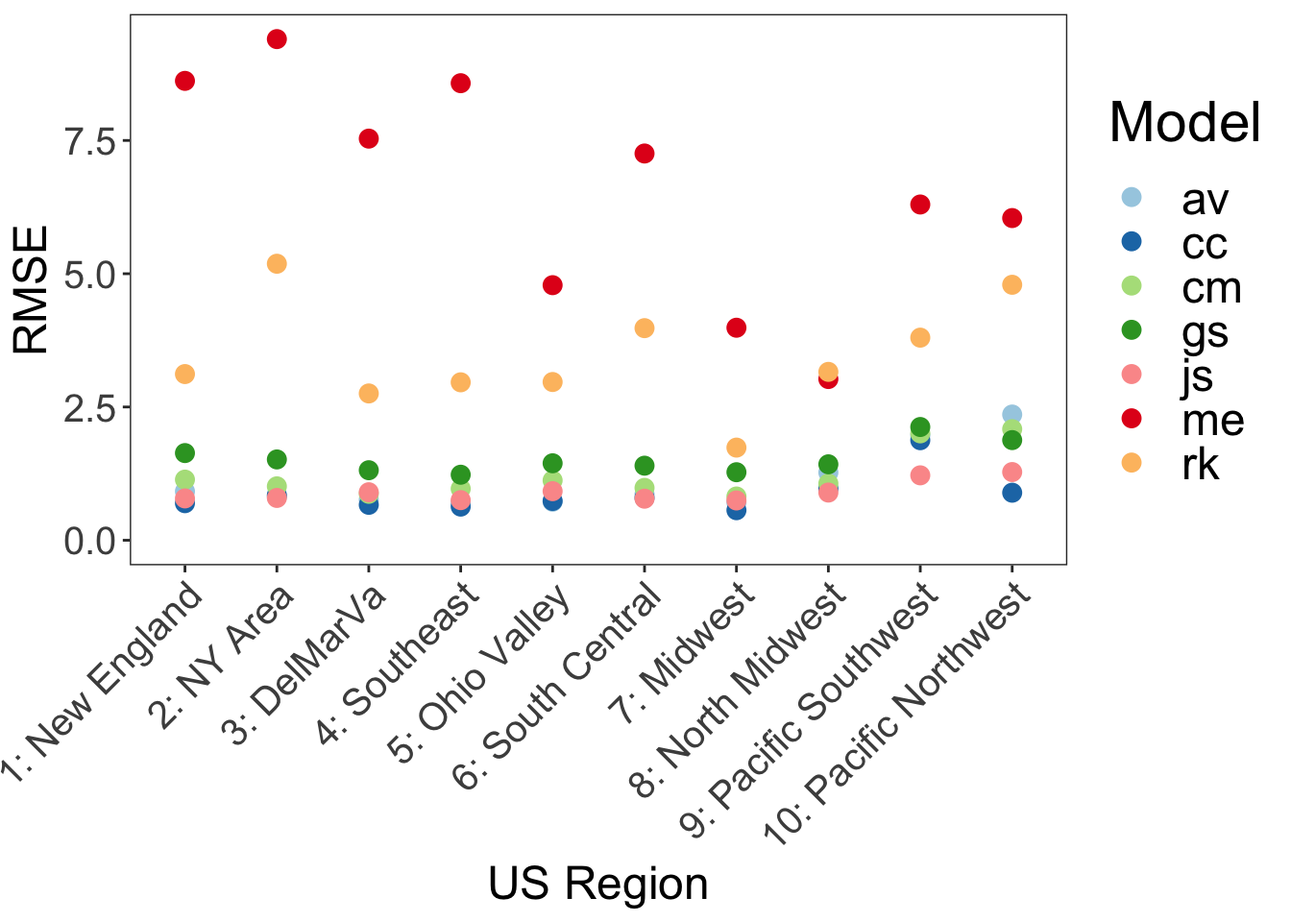
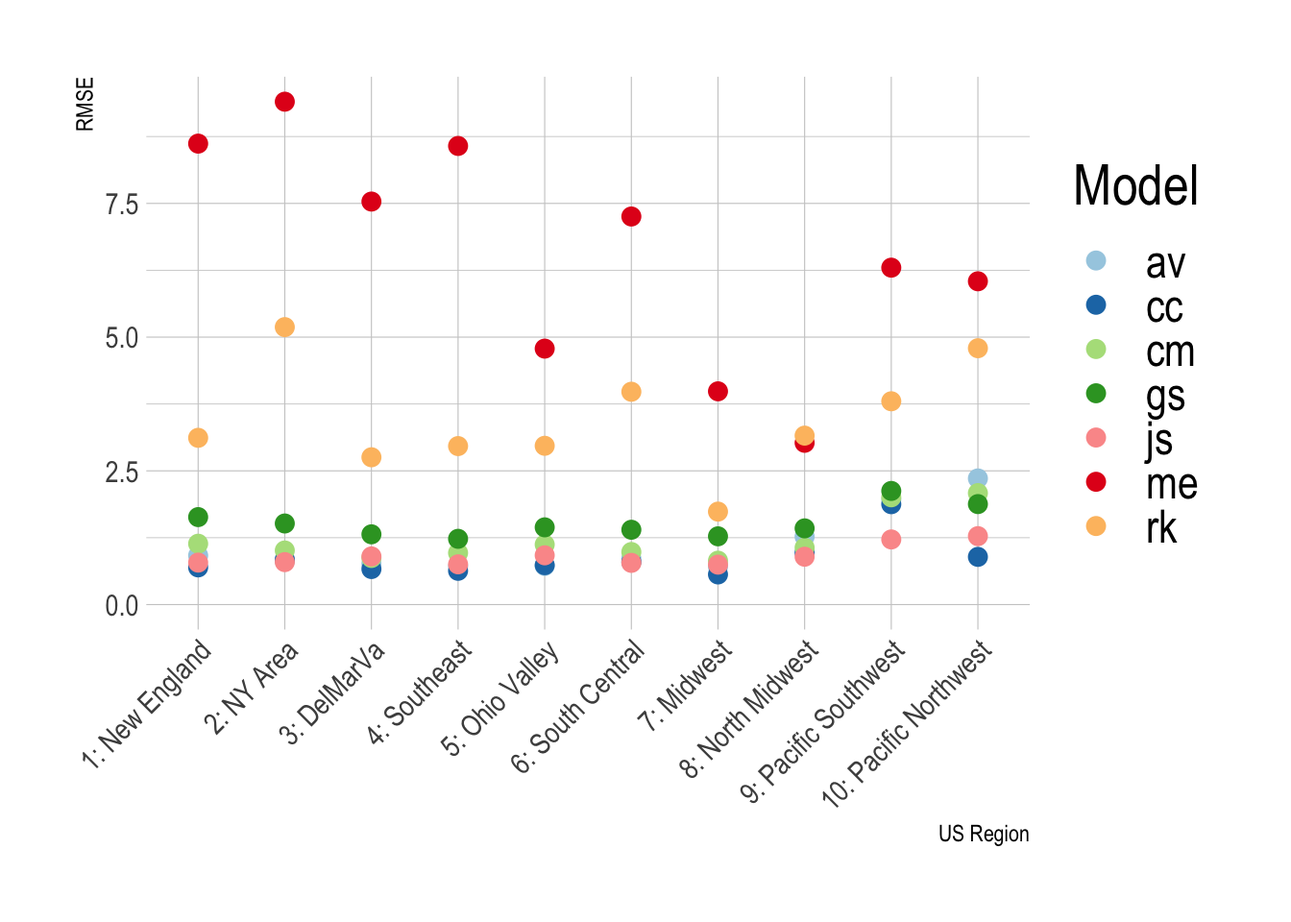
bne cleanup plots and imports

diff --git a/labs/bayesian_nonparametric_ensemble/bayesian_nonparametric_ensemble.html b/labs/bayesian_nonparametric_ensemble/bayesian_nonparametric_ensemble.html
@@ -2,7 +2,7 @@
 <html xmlns="http://www.w3.org/1999/xhtml" lang="en" xml:lang="en"><head>
 
 <meta charset="utf-8">
-<meta name="generator" content="quarto-1.3.354">
+<meta name="generator" content="quarto-1.3.433">
 
 <meta name="viewport" content="width=device-width, initial-scale=1.0, user-scalable=yes">
 
@@ -147,7 +147,7 @@ pre > code.sourceCode > span > a:first-child::before { text-decoration: underlin
 </div>
 <p>Load training dataset containing input base models and AQS observations for PM<span class="math inline">\(_{2.5}\)</span> during the period 2010-2015. To create the training dataset, we spatially joined each model to the EPA AQS dataset, using the prediction that was closest to each monitor (i.e., nearest neighbors).</p>
 <div class="cell">
-<div class="sourceCode cell-code" id="cb2"><pre class="sourceCode r code-with-copy"><code class="sourceCode r"><span id="cb2-1"><a href="#cb2-1" aria-hidden="true" tabindex="-1"></a>aqs_preds <span class="ot">&lt;-</span> readr<span class="sc">::</span><span class="fu">read_csv</span>(<span class="fu">here</span>(<span class="st">"data"</span>, <span class="st">"us"</span>, <span class="st">"training_cvfolds.csv"</span>))</span></code><button title="Copy to Clipboard" class="code-copy-button"><i class="bi"></i></button></pre></div>
+<div class="sourceCode cell-code" id="cb2"><pre class="sourceCode r code-with-copy"><code class="sourceCode r"><span id="cb2-1"><a href="#cb2-1" aria-hidden="true" tabindex="-1"></a>aqs_preds <span class="ot">&lt;-</span> <span class="fu">read_csv</span>(<span class="fu">here</span>(<span class="st">"data"</span>, <span class="st">"us"</span>, <span class="st">"training_cvfolds.csv"</span>))</span></code><button title="Copy to Clipboard" class="code-copy-button"><i class="bi"></i></button></pre></div>
 <div class="cell-output cell-output-stderr">
 <pre><code>Rows: 3808 Columns: 14
 ── Column specification ────────────────────────────────────────────────────────
@@ -190,9 +190,9 @@ dbl (12): lat, lon, yyyy, obs, pred_av, pred_cc, pred_cm, pred_gs, pred_js, ...
                     Max.   :10.000  </code></pre>
 </div>
 </div>
-<p>Load prediction dataset. To create the prediction dataset, we first created a reference grid, and then joined each prediction dataset by nearest neighbor. This dataset also contains <code>BNE</code> results that will be explored in next steps.</p>
+<p>Load prediction dataset. To create the prediction dataset, we first created a reference grid, and then joined each prediction dataset by nearest neighbour. This dataset also contains <code>BNE</code> results that will be explored in next steps.</p>
 <div class="cell">
-<div class="sourceCode cell-code" id="cb6"><pre class="sourceCode r code-with-copy"><code class="sourceCode r"><span id="cb6-1"><a href="#cb6-1" aria-hidden="true" tabindex="-1"></a>bne2015 <span class="ot">&lt;-</span> readr<span class="sc">::</span><span class="fu">read_csv</span>(<span class="fu">here</span>(<span class="st">"data"</span>, <span class="st">"us"</span>, <span class="st">"refGrid_pm25_comp_seb_vers_2_2015_2_0-5_2_0-5_2_0-0498_0-1353.csv"</span>))</span></code><button title="Copy to Clipboard" class="code-copy-button"><i class="bi"></i></button></pre></div>
+<div class="sourceCode cell-code" id="cb6"><pre class="sourceCode r code-with-copy"><code class="sourceCode r"><span id="cb6-1"><a href="#cb6-1" aria-hidden="true" tabindex="-1"></a>bne2015 <span class="ot">&lt;-</span> <span class="fu">read_csv</span>(<span class="fu">here</span>(<span class="st">"data"</span>, <span class="st">"us"</span>, <span class="st">"refGrid_pm25_comp_seb_vers_2_2015_2_0-5_2_0-5_2_0-0498_0-1353.csv"</span>))</span></code><button title="Copy to Clipboard" class="code-copy-button"><i class="bi"></i></button></pre></div>
 <div class="cell-output cell-output-stderr">
 <pre><code>Rows: 52385 Columns: 51
 ── Column specification ────────────────────────────────────────────────────────
@@ -273,7 +273,7 @@ dbl (51): lat, lon, time, ens_mean, ens_sd, rp_mean, rp_sd, y_mean, y_sd, un...
 </div>
 <p>How do input base model predictions compare with AQS observations?</p>
 <div class="cell">
-<div class="sourceCode cell-code" id="cb15"><pre class="sourceCode r code-with-copy"><code class="sourceCode r"><span id="cb15-1"><a href="#cb15-1" aria-hidden="true" tabindex="-1"></a>aqs_preds_summ <span class="ot">&lt;-</span> aqs_preds <span class="sc">%&gt;%</span></span>
+<div class="sourceCode cell-code" id="cb15"><pre class="sourceCode r code-with-copy"><code class="sourceCode r"><span id="cb15-1"><a href="#cb15-1" aria-hidden="true" tabindex="-1"></a>aqs_preds_summ <span class="ot">&lt;-</span> aqs_preds <span class="sc">|&gt;</span></span>
 <span id="cb15-2"><a href="#cb15-2" aria-hidden="true" tabindex="-1"></a>  <span class="fu">mutate</span>(</span>
 <span id="cb15-3"><a href="#cb15-3" aria-hidden="true" tabindex="-1"></a>    <span class="at">se_av =</span> (pred_av <span class="sc">-</span> obs)<span class="sc">^</span><span class="dv">2</span>,</span>
 <span id="cb15-4"><a href="#cb15-4" aria-hidden="true" tabindex="-1"></a>    <span class="at">se_cc =</span> (pred_cc <span class="sc">-</span> obs)<span class="sc">^</span><span class="dv">2</span>,</span>
@@ -284,8 +284,8 @@ dbl (51): lat, lon, time, ens_mean, ens_sd, rp_mean, rp_sd, y_mean, y_sd, un...
 <span id="cb15-9"><a href="#cb15-9" aria-hidden="true" tabindex="-1"></a>    <span class="at">se_rk =</span> (pred_rk <span class="sc">-</span> obs)<span class="sc">^</span><span class="dv">2</span></span>
 <span id="cb15-10"><a href="#cb15-10" aria-hidden="true" tabindex="-1"></a>  )</span>
 <span id="cb15-11"><a href="#cb15-11" aria-hidden="true" tabindex="-1"></a></span>
-<span id="cb15-12"><a href="#cb15-12" aria-hidden="true" tabindex="-1"></a>aqs_preds_summ_reg <span class="ot">&lt;-</span> aqs_preds_summ <span class="sc">%&gt;%</span></span>
-<span id="cb15-13"><a href="#cb15-13" aria-hidden="true" tabindex="-1"></a>  <span class="fu">inner_join</span>(readr<span class="sc">::</span><span class="fu">read_csv</span>(<span class="fu">here</span>(<span class="st">"data"</span>, <span class="st">"us"</span>, <span class="st">"key_state_region.csv"</span>)), <span class="at">by =</span> <span class="st">"state"</span>) <span class="sc">%&gt;%</span></span>
+<span id="cb15-12"><a href="#cb15-12" aria-hidden="true" tabindex="-1"></a>aqs_preds_summ_reg <span class="ot">&lt;-</span> aqs_preds_summ <span class="sc">|&gt;</span></span>
+<span id="cb15-13"><a href="#cb15-13" aria-hidden="true" tabindex="-1"></a>  <span class="fu">inner_join</span>(readr<span class="sc">::</span><span class="fu">read_csv</span>(<span class="fu">here</span>(<span class="st">"data"</span>, <span class="st">"us"</span>, <span class="st">"key_state_region.csv"</span>)), <span class="at">by =</span> <span class="st">"state"</span>) <span class="sc">|&gt;</span></span>
 <span id="cb15-14"><a href="#cb15-14" aria-hidden="true" tabindex="-1"></a>  <span class="fu">inner_join</span>(readr<span class="sc">::</span><span class="fu">read_csv</span>(<span class="fu">here</span>(<span class="st">"data"</span>, <span class="st">"us"</span>, <span class="st">"key_region_regionName.csv"</span>)), <span class="at">by =</span> <span class="st">"region"</span>)</span></code><button title="Copy to Clipboard" class="code-copy-button"><i class="bi"></i></button></pre></div>
 <div class="cell-output cell-output-stderr">
 <pre><code>Rows: 52 Columns: 2
@@ -303,8 +303,8 @@ chr (2): region, region_name
 ℹ Use `spec()` to retrieve the full column specification for this data.
 ℹ Specify the column types or set `show_col_types = FALSE` to quiet this message.</code></pre>
 </div>
-<div class="sourceCode cell-code" id="cb17"><pre class="sourceCode r code-with-copy"><code class="sourceCode r"><span id="cb17-1"><a href="#cb17-1" aria-hidden="true" tabindex="-1"></a>aqs_preds_summ_rmse <span class="ot">&lt;-</span> aqs_preds_summ_reg <span class="sc">%&gt;%</span></span>
-<span id="cb17-2"><a href="#cb17-2" aria-hidden="true" tabindex="-1"></a>  <span class="fu">group_by</span>(region_name) <span class="sc">%&gt;%</span></span>
+<div class="sourceCode cell-code" id="cb17"><pre class="sourceCode r code-with-copy"><code class="sourceCode r"><span id="cb17-1"><a href="#cb17-1" aria-hidden="true" tabindex="-1"></a>aqs_preds_summ_rmse <span class="ot">&lt;-</span> aqs_preds_summ_reg <span class="sc">|&gt;</span></span>
+<span id="cb17-2"><a href="#cb17-2" aria-hidden="true" tabindex="-1"></a>  <span class="fu">group_by</span>(region_name) <span class="sc">|&gt;</span></span>
 <span id="cb17-3"><a href="#cb17-3" aria-hidden="true" tabindex="-1"></a>  <span class="fu">summarize</span>(</span>
 <span id="cb17-4"><a href="#cb17-4" aria-hidden="true" tabindex="-1"></a>    <span class="at">rmse_av =</span> <span class="fu">sqrt</span>(<span class="fu">mean</span>(se_av)),</span>
 <span id="cb17-5"><a href="#cb17-5" aria-hidden="true" tabindex="-1"></a>    <span class="at">rmse_cc =</span> <span class="fu">sqrt</span>(<span class="fu">mean</span>(se_cc)),</span>
@@ -313,7 +313,7 @@ chr (2): region, region_name
 <span id="cb17-8"><a href="#cb17-8" aria-hidden="true" tabindex="-1"></a>    <span class="at">rmse_js =</span> <span class="fu">sqrt</span>(<span class="fu">mean</span>(se_js)),</span>
 <span id="cb17-9"><a href="#cb17-9" aria-hidden="true" tabindex="-1"></a>    <span class="at">rmse_me =</span> <span class="fu">sqrt</span>(<span class="fu">mean</span>(se_me)),</span>
 <span id="cb17-10"><a href="#cb17-10" aria-hidden="true" tabindex="-1"></a>    <span class="at">rmse_rk =</span> <span class="fu">sqrt</span>(<span class="fu">mean</span>(se_rk))</span>
-<span id="cb17-11"><a href="#cb17-11" aria-hidden="true" tabindex="-1"></a>  ) <span class="sc">%&gt;%</span></span>
+<span id="cb17-11"><a href="#cb17-11" aria-hidden="true" tabindex="-1"></a>  ) <span class="sc">|&gt;</span></span>
 <span id="cb17-12"><a href="#cb17-12" aria-hidden="true" tabindex="-1"></a>  <span class="fu">pivot_longer</span>(</span>
 <span id="cb17-13"><a href="#cb17-13" aria-hidden="true" tabindex="-1"></a>    <span class="at">cols =</span> <span class="fu">starts_with</span>(<span class="st">"rmse_"</span>),</span>
 <span id="cb17-14"><a href="#cb17-14" aria-hidden="true" tabindex="-1"></a>    <span class="at">names_to =</span> <span class="st">"model"</span>,</span>
@@ -322,36 +322,27 @@ chr (2): region, region_name
 <span id="cb17-17"><a href="#cb17-17" aria-hidden="true" tabindex="-1"></a>    <span class="at">values_drop_na =</span> <span class="cn">TRUE</span></span>
 <span id="cb17-18"><a href="#cb17-18" aria-hidden="true" tabindex="-1"></a>  )</span>
 <span id="cb17-19"><a href="#cb17-19" aria-hidden="true" tabindex="-1"></a></span>
-<span id="cb17-20"><a href="#cb17-20" aria-hidden="true" tabindex="-1"></a>p <span class="ot">&lt;-</span> aqs_preds_summ_rmse <span class="sc">%&gt;%</span></span>
+<span id="cb17-20"><a href="#cb17-20" aria-hidden="true" tabindex="-1"></a>p <span class="ot">&lt;-</span> aqs_preds_summ_rmse <span class="sc">|&gt;</span></span>
 <span id="cb17-21"><a href="#cb17-21" aria-hidden="true" tabindex="-1"></a>  <span class="fu">mutate</span>(<span class="at">region_name =</span> <span class="fu">fct_relevel</span>(</span>
 <span id="cb17-22"><a href="#cb17-22" aria-hidden="true" tabindex="-1"></a>    region_name,</span>
 <span id="cb17-23"><a href="#cb17-23" aria-hidden="true" tabindex="-1"></a>    <span class="st">"1: New England"</span>, <span class="st">"2: NY Area"</span>, <span class="st">"3: DelMarVa"</span>,</span>
 <span id="cb17-24"><a href="#cb17-24" aria-hidden="true" tabindex="-1"></a>    <span class="st">"4: Southeast"</span>, <span class="st">"5: Ohio Valley"</span>, <span class="st">"6: South Central"</span>,</span>
 <span id="cb17-25"><a href="#cb17-25" aria-hidden="true" tabindex="-1"></a>    <span class="st">"7: Midwest"</span>, <span class="st">"8: North Midwest"</span>, <span class="st">"9: Pacific Southwest"</span>, <span class="st">"10: Pacific Northwest"</span></span>
-<span id="cb17-26"><a href="#cb17-26" aria-hidden="true" tabindex="-1"></a>  )) <span class="sc">%&gt;%</span></span>
-<span id="cb17-27"><a href="#cb17-27" aria-hidden="true" tabindex="-1"></a>  <span class="fu">ggplot</span>() <span class="sc">+</span></span>
-<span id="cb17-28"><a href="#cb17-28" aria-hidden="true" tabindex="-1"></a>  <span class="fu">geom_point</span>(<span class="fu">aes</span>(<span class="at">x =</span> region_name, <span class="at">y =</span> rmse, <span class="at">color =</span> model), <span class="at">size =</span> <span class="dv">3</span>) <span class="sc">+</span></span>
+<span id="cb17-26"><a href="#cb17-26" aria-hidden="true" tabindex="-1"></a>  )) <span class="sc">|&gt;</span></span>
+<span id="cb17-27"><a href="#cb17-27" aria-hidden="true" tabindex="-1"></a>  <span class="fu">ggplot</span>(<span class="fu">aes</span>(<span class="at">x =</span> region_name, <span class="at">y =</span> rmse, <span class="at">color =</span> model)) <span class="sc">+</span></span>
+<span id="cb17-28"><a href="#cb17-28" aria-hidden="true" tabindex="-1"></a>  <span class="fu">geom_point</span>(<span class="at">size =</span> <span class="dv">3</span>) <span class="sc">+</span></span>
 <span id="cb17-29"><a href="#cb17-29" aria-hidden="true" tabindex="-1"></a>  <span class="fu">scale_color_brewer</span>(<span class="at">palette =</span> <span class="st">"Paired"</span>) <span class="sc">+</span></span>
 <span id="cb17-30"><a href="#cb17-30" aria-hidden="true" tabindex="-1"></a>  <span class="fu">scale_fill_brewer</span>(<span class="at">palette =</span> <span class="st">"Paired"</span>) <span class="sc">+</span></span>
 <span id="cb17-31"><a href="#cb17-31" aria-hidden="true" tabindex="-1"></a>  <span class="fu">labs</span>(<span class="at">x =</span> <span class="st">"US Region"</span>, <span class="at">y =</span> <span class="st">"RMSE"</span>, <span class="at">color =</span> <span class="st">"Model"</span>, <span class="at">shape =</span> <span class="st">"Model"</span>) <span class="sc">+</span></span>
-<span id="cb17-32"><a href="#cb17-32" aria-hidden="true" tabindex="-1"></a>  <span class="fu">theme_bw</span>() <span class="sc">+</span></span>
-<span id="cb17-33"><a href="#cb17-33" aria-hidden="true" tabindex="-1"></a>  <span class="fu">theme</span>(</span>
-<span id="cb17-34"><a href="#cb17-34" aria-hidden="true" tabindex="-1"></a>    <span class="at">axis.title =</span> <span class="fu">element_text</span>(<span class="at">size =</span> <span class="dv">18</span>),</span>
-<span id="cb17-35"><a href="#cb17-35" aria-hidden="true" tabindex="-1"></a>    <span class="at">axis.text =</span> <span class="fu">element_text</span>(<span class="at">size =</span> <span class="dv">15</span>),</span>
-<span id="cb17-36"><a href="#cb17-36" aria-hidden="true" tabindex="-1"></a>    <span class="at">strip.text =</span> <span class="fu">element_text</span>(<span class="at">size =</span> <span class="dv">15</span>),</span>
-<span id="cb17-37"><a href="#cb17-37" aria-hidden="true" tabindex="-1"></a>    <span class="at">strip.background =</span> <span class="fu">element_rect</span>(<span class="at">color =</span> <span class="st">"white"</span>)</span>
+<span id="cb17-32"><a href="#cb17-32" aria-hidden="true" tabindex="-1"></a>  <span class="fu">theme</span>(</span>
+<span id="cb17-33"><a href="#cb17-33" aria-hidden="true" tabindex="-1"></a>    <span class="at">legend.title =</span> <span class="fu">element_text</span>(<span class="at">size =</span> <span class="dv">22</span>),</span>
+<span id="cb17-34"><a href="#cb17-34" aria-hidden="true" tabindex="-1"></a>    <span class="at">legend.text =</span> <span class="fu">element_text</span>(<span class="at">size =</span> <span class="dv">18</span>),</span>
+<span id="cb17-35"><a href="#cb17-35" aria-hidden="true" tabindex="-1"></a>    <span class="at">axis.title =</span> <span class="fu">element_text</span>(<span class="at">size =</span> <span class="dv">18</span>),</span>
+<span id="cb17-36"><a href="#cb17-36" aria-hidden="true" tabindex="-1"></a>    <span class="at">axis.text =</span> <span class="fu">element_text</span>(<span class="at">size =</span> <span class="dv">15</span>),</span>
+<span id="cb17-37"><a href="#cb17-37" aria-hidden="true" tabindex="-1"></a>    <span class="at">axis.text.x =</span> <span class="fu">element_text</span>(<span class="at">angle =</span> <span class="dv">45</span>, <span class="at">hjust =</span> <span class="dv">1</span>)</span>
 <span id="cb17-38"><a href="#cb17-38" aria-hidden="true" tabindex="-1"></a>  ) <span class="sc">+</span></span>
-<span id="cb17-39"><a href="#cb17-39" aria-hidden="true" tabindex="-1"></a>  <span class="fu">theme</span>(</span>
-<span id="cb17-40"><a href="#cb17-40" aria-hidden="true" tabindex="-1"></a>    <span class="at">legend.title =</span> <span class="fu">element_text</span>(<span class="at">size =</span> <span class="dv">22</span>),</span>
-<span id="cb17-41"><a href="#cb17-41" aria-hidden="true" tabindex="-1"></a>    <span class="at">legend.text =</span> <span class="fu">element_text</span>(<span class="at">size =</span> <span class="dv">18</span>)</span>
-<span id="cb17-42"><a href="#cb17-42" aria-hidden="true" tabindex="-1"></a>  ) <span class="sc">+</span></span>
-<span id="cb17-43"><a href="#cb17-43" aria-hidden="true" tabindex="-1"></a>  <span class="fu">theme</span>(</span>
-<span id="cb17-44"><a href="#cb17-44" aria-hidden="true" tabindex="-1"></a>    <span class="at">panel.grid.major =</span> <span class="fu">element_blank</span>(),</span>
-<span id="cb17-45"><a href="#cb17-45" aria-hidden="true" tabindex="-1"></a>    <span class="at">panel.grid.minor =</span> <span class="fu">element_blank</span>()</span>
-<span id="cb17-46"><a href="#cb17-46" aria-hidden="true" tabindex="-1"></a>  ) <span class="sc">+</span></span>
-<span id="cb17-47"><a href="#cb17-47" aria-hidden="true" tabindex="-1"></a>  <span class="fu">theme</span>(<span class="at">axis.text.x =</span> <span class="fu">element_text</span>(<span class="at">angle =</span> <span class="dv">45</span>, <span class="at">hjust =</span> <span class="dv">1</span>)) <span class="sc">+</span></span>
-<span id="cb17-48"><a href="#cb17-48" aria-hidden="true" tabindex="-1"></a>  <span class="fu">ylim</span>(<span class="fu">c</span>(<span class="dv">0</span>, <span class="fu">max</span>(aqs_preds_summ_rmse<span class="sc">$</span>rmse)))</span>
-<span id="cb17-49"><a href="#cb17-49" aria-hidden="true" tabindex="-1"></a>p</span></code><button title="Copy to Clipboard" class="code-copy-button"><i class="bi"></i></button></pre></div>
+<span id="cb17-39"><a href="#cb17-39" aria-hidden="true" tabindex="-1"></a>  <span class="fu">lims</span>(<span class="at">y =</span> <span class="fu">c</span>(<span class="dv">0</span>, <span class="fu">max</span>(aqs_preds_summ_rmse<span class="sc">$</span>rmse)))</span>
+<span id="cb17-40"><a href="#cb17-40" aria-hidden="true" tabindex="-1"></a>p</span></code><button title="Copy to Clipboard" class="code-copy-button"><i class="bi"></i></button></pre></div>
 <div class="cell-output-display">
 <p><img src="bayesian_nonparametric_ensemble_files/figure-html/unnamed-chunk-6-1.png" class="img-fluid" width="672"></p>
 </div>
@@ -360,7 +351,11 @@ chr (2): region, region_name
 <section id="running-bne" class="level2">
 <h2 class="anchored" data-anchor-id="running-bne">Running <code>BNE</code></h2>
 <p>In this lab, we provide you with <code>BNE</code> source code both in MATLAB and Octave, an open source programming language. In this part of the lab, we execute locally running_<code>BNE</code>_octave.qmd file running <code>BNE</code> on a subset of the contiguous US constrained to the South West area. You can run either the MATLAB or the Octave code in your computer using the scripts found at <code>BNE</code>_v2_matlab and/or <code>BNE</code>_v2_octave.</p>
-<p>In order to run <code>BNE</code>, we need to 1) train <code>BNE</code> given input base model predictions and AQS observations; 2) generate <code>BNE</code> predictions and uncertainty levels over an spatio-temporal context of interest.</p>
+<p>In order to run <code>BNE</code>, we need to:</p>
+<ol type="1">
+<li>Train <code>BNE</code> given input base model predictions and AQS observations;</li>
+<li>Generate <code>BNE</code> predictions and uncertainty levels over an spatio-temporal context of interest.</li>
+</ol>
 <p><code>BNE</code> is an ensemble approach in which the weights vary smoothly over space and time. In other words, for a particular point in space-time, the weight of an input model is informed by the model’s performance at nearby points. This approach is particularly well-suited for modeling environmental factors that vary smoothly over space, such as temperature and air pollution, as individual models have been have accuracy that varies over time and space. As a Bayesian model, <code>BNE</code> yields a Posterior Predictive Distribution (PPD) for each parameter of interest.</p>
 <p>For example, if a model has relatively high performance in New England, but not in the South East region, <code>BNE</code> will assign high weights to that model in New England, but not in the South East. <code>BNE</code> has adaptive weights that maximize predictive accuracy and, thus, minimize exposure measurement error.</p>
 <p>Training <code>BNE</code> requires times &amp; locations of ground-truth observations, the ground-truth observations, and the predictions at those times and locations of the input models.</p>
@@ -382,7 +377,7 @@ chr (2): region, region_name
 <span id="cb18-9"><a href="#cb18-9" aria-hidden="true" tabindex="-1"></a>  <span class="fu">round</span>(<span class="fu">min</span>(varVec) <span class="sc">+</span> <span class="fl">0.5</span> <span class="sc">*</span> varRange, <span class="dv">2</span>), <span class="fu">round</span>(<span class="fu">min</span>(varVec) <span class="sc">+</span> <span class="fl">0.75</span> <span class="sc">*</span> varRange, <span class="dv">2</span>),</span>
 <span id="cb18-10"><a href="#cb18-10" aria-hidden="true" tabindex="-1"></a>  <span class="fu">round</span>(<span class="fu">max</span>(varVec), <span class="dv">2</span>)</span>
 <span id="cb18-11"><a href="#cb18-11" aria-hidden="true" tabindex="-1"></a>)</span>
-<span id="cb18-12"><a href="#cb18-12" aria-hidden="true" tabindex="-1"></a>cowplot<span class="sc">::</span><span class="fu">plot_grid</span>(</span>
+<span id="cb18-12"><a href="#cb18-12" aria-hidden="true" tabindex="-1"></a><span class="fu">plot_grid</span>(</span>
 <span id="cb18-13"><a href="#cb18-13" aria-hidden="true" tabindex="-1"></a>  <span class="fu">plotOneParameterSpatial</span>(</span>
 <span id="cb18-14"><a href="#cb18-14" aria-hidden="true" tabindex="-1"></a>    <span class="at">dta =</span> bne2015, <span class="at">parameterName =</span> <span class="st">"w_mean_av"</span>,</span>
 <span id="cb18-15"><a href="#cb18-15" aria-hidden="true" tabindex="-1"></a>    <span class="at">mainTitle =</span> <span class="st">"Weight of AV Model"</span>, <span class="at">valueScale =</span> varScale</span>
@@ -476,10 +471,10 @@ chr (2): region, region_name
 <div class="cell">
 <div class="sourceCode cell-code" id="cb21"><pre class="sourceCode r code-with-copy"><code class="sourceCode r"><span id="cb21-1"><a href="#cb21-1" aria-hidden="true" tabindex="-1"></a><span class="co"># 1a function to calculate scaled uncertainty</span></span>
 <span id="cb21-2"><a href="#cb21-2" aria-hidden="true" tabindex="-1"></a>compute_scaled_y_sd <span class="ot">&lt;-</span> <span class="cf">function</span>(bne) {</span>
-<span id="cb21-3"><a href="#cb21-3" aria-hidden="true" tabindex="-1"></a>  bne <span class="ot">&lt;-</span> bne <span class="sc">%&gt;%</span></span>
+<span id="cb21-3"><a href="#cb21-3" aria-hidden="true" tabindex="-1"></a>  bne <span class="ot">&lt;-</span> bne <span class="sc">|&gt;</span></span>
 <span id="cb21-4"><a href="#cb21-4" aria-hidden="true" tabindex="-1"></a>    <span class="fu">mutate</span>(<span class="at">y_sd_scaled =</span> y_sd <span class="sc">/</span> y_mean)</span>
 <span id="cb21-5"><a href="#cb21-5" aria-hidden="true" tabindex="-1"></a>}</span>
-<span id="cb21-6"><a href="#cb21-6" aria-hidden="true" tabindex="-1"></a>bne2015 <span class="ot">&lt;-</span> bne2015 <span class="sc">%&gt;%</span></span>
+<span id="cb21-6"><a href="#cb21-6" aria-hidden="true" tabindex="-1"></a>bne2015 <span class="ot">&lt;-</span> bne2015 <span class="sc">|&gt;</span></span>
 <span id="cb21-7"><a href="#cb21-7" aria-hidden="true" tabindex="-1"></a>  <span class="fu">compute_scaled_y_sd</span>()</span>
 <span id="cb21-8"><a href="#cb21-8" aria-hidden="true" tabindex="-1"></a></span>
 <span id="cb21-9"><a href="#cb21-9" aria-hidden="true" tabindex="-1"></a>varVec <span class="ot">&lt;-</span> <span class="fu">c</span>(bne2015<span class="sc">$</span>y_sd_scaled)</span>
@@ -502,7 +497,7 @@ chr (2): region, region_name
 <h2 class="anchored" data-anchor-id="closing-remarks">Closing remarks</h2>
 <p>In this lab session, we have explored how to run <code>BNE</code> to estimate PM<span class="math inline">\(_{2.5}\)</span> predictions and uncertainty given seven input base models and AQS observations. We first explored input base models’ PM<span class="math inline">\(_{2.5}\)</span> predictions for 2015 and compared them against AQS observations over the contiguous US. We continued by running <code>BNE</code> over south western US cities, a subset of the US initial data. We then analysed <code>BNE</code> output over the contiguous US.</p>
 <p>Obtaining comprehensive uncertainties can be helpful in so many fields, from better inference in health models, to informing monitoring placement, to helping improve individual prediction models, to better understanding environmental justice issues etc. Reporting the weights and/or the uncertainty back to the teams developing these models can create a positive feedback loop where the models are improved, identifying high uncertainty areas can help with future monitoring station placement etc.</p>
-<p>Many of the materials used in this lab have been developed during Sebastian’s Rowland PhD. Sebastian’s publication of this work is under review in a scientific journal. Please, do not distribute or publish works using the data provided in this lab. <code>BNE</code>’s methodology has been recently published and the code can be applied to similar environmental issues. Please, let us know if you are interested in pursuing this avenue.</p>
+<p>Many of the materials used in this lab have been developed during Sebastian’s Rowland PhD. Sebastian’s publication of this work is under review in a scientific journal. Please do not distribute or publish works using the data provided in this lab. <code>BNE</code>’s methodology has been recently published and the code can be applied to similar environmental issues. Please let us know if you are interested in pursuing this avenue.</p>
 </section>
 
 </main>
